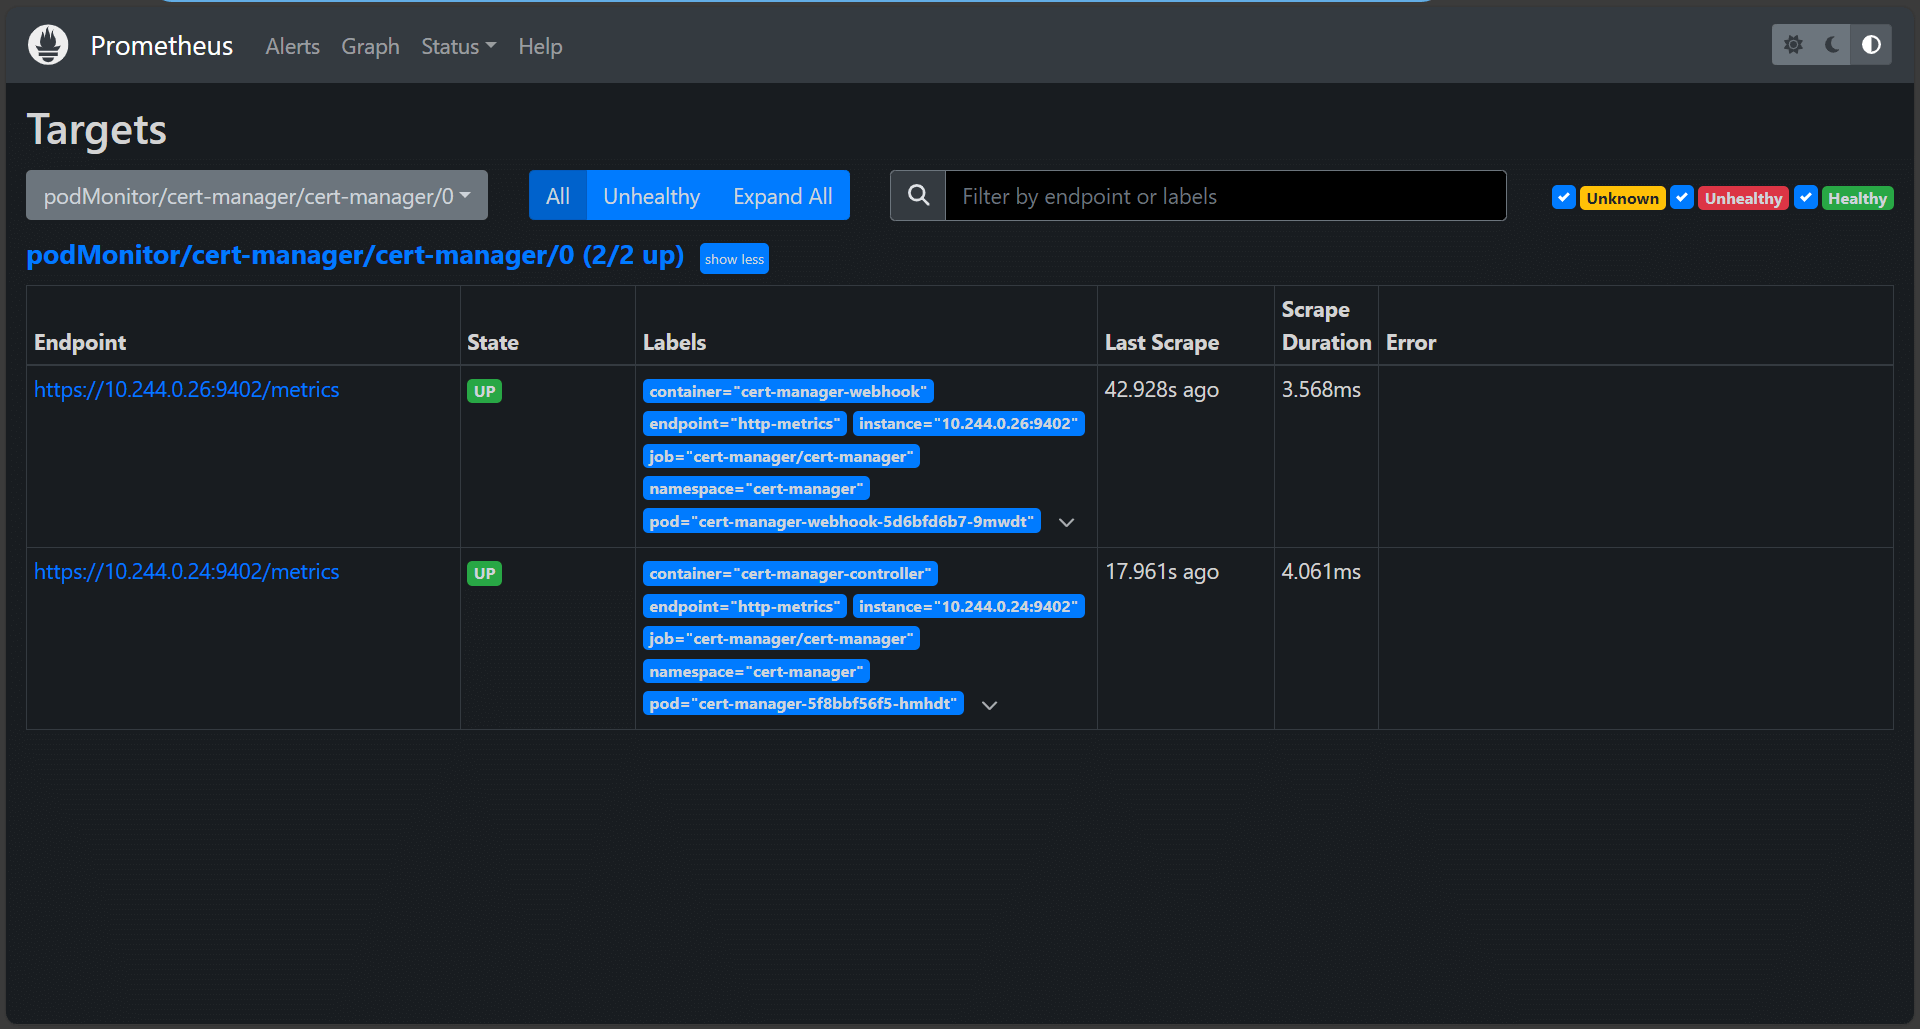
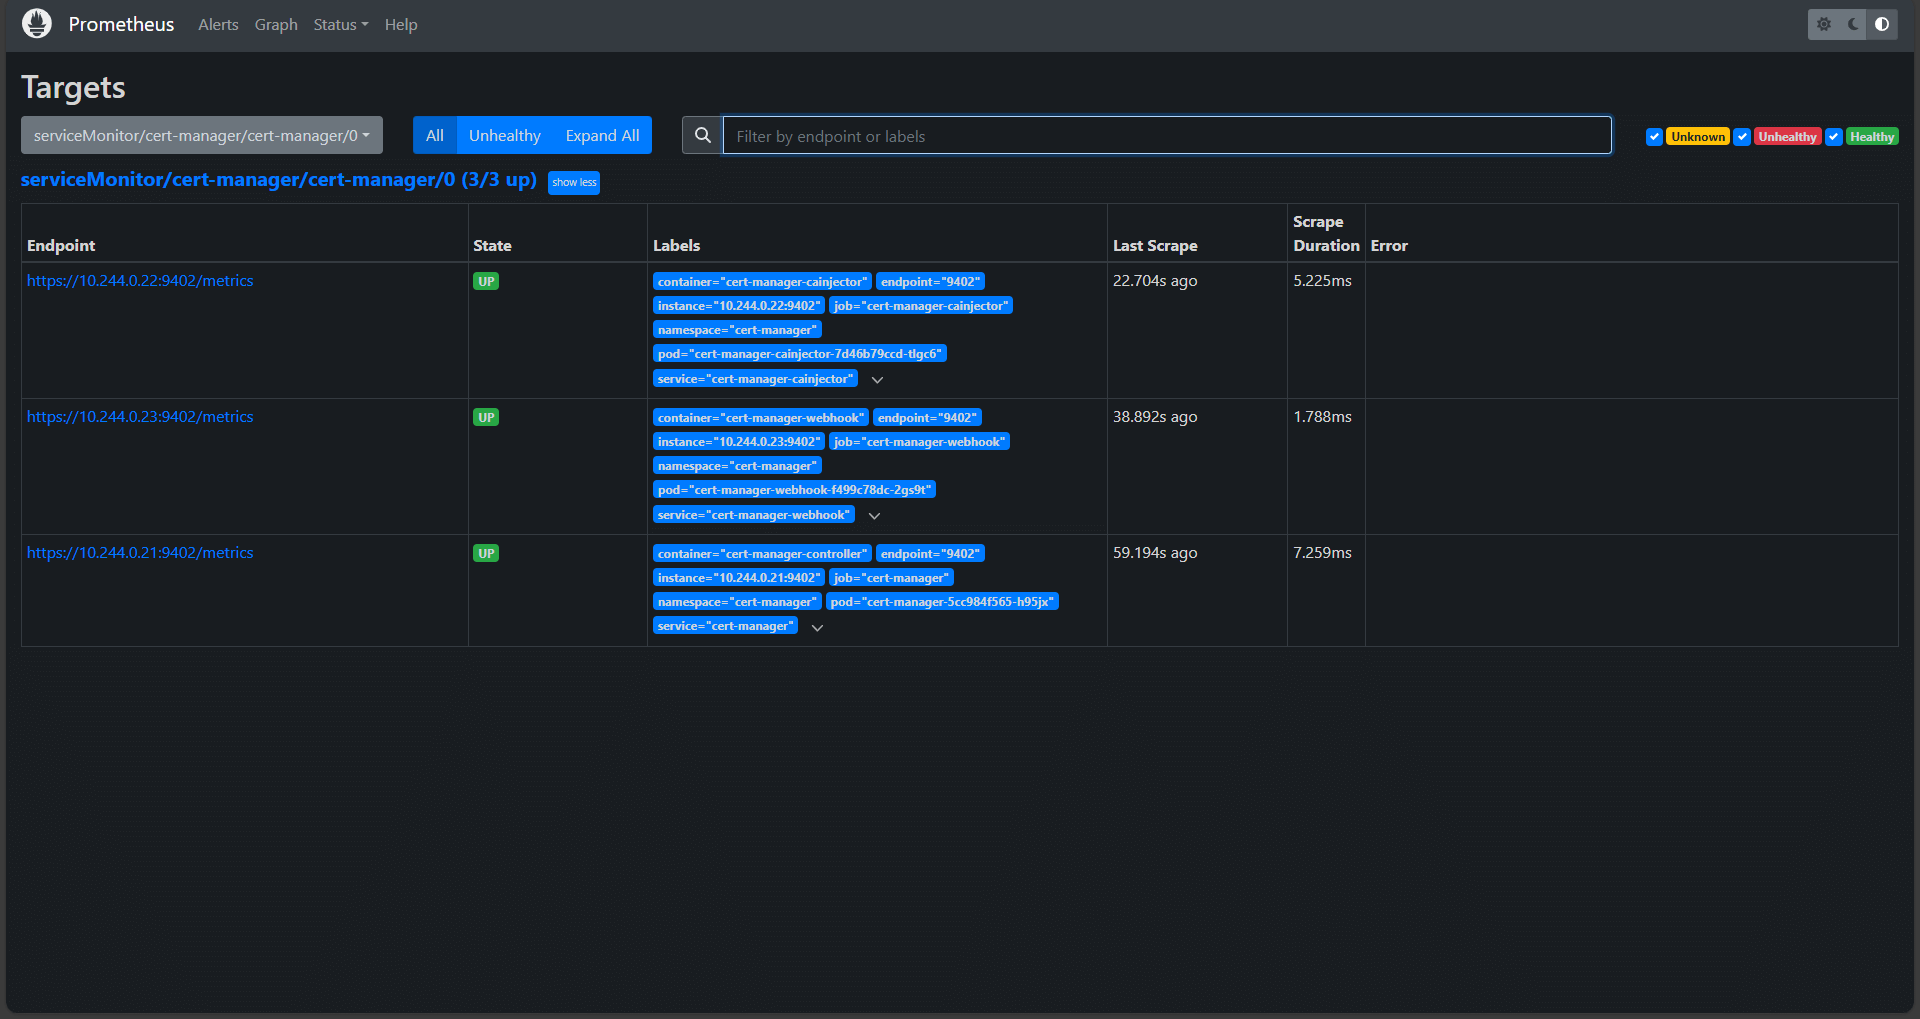
Update the Prometheus Operator documentation to scrape cainjector too

diff --git a/content/docs/devops-tips/prometheus-metrics.md b/content/docs/devops-tips/prometheus-metrics.md
@@ -3,7 +3,7 @@ title: Prometheus Metrics
 description: 'cert-manager usage: Prometheus metrics'
 ---
 
-To help with operations and insights into cert-manager activities, cert-manager exposes metrics in the [Prometheus](https://prometheus.io/) format from the controller and webhook components. These are available at the standard `/metrics` endpoint on port `9402` of each component Pod.
+To help with operations and insights into cert-manager activities, cert-manager exposes metrics in the [Prometheus](https://prometheus.io/) format from the controller, webhook and cainjector components. These are available at the standard `/metrics` endpoint on port `9402` of each component Pod.
 
 ## Scraping Metrics
 
@@ -41,6 +41,7 @@ spec:
       - key: app.kubernetes.io/name
         operator: In
         values:
+        - cainjector
         - cert-manager
         - webhook
       - key: app.kubernetes.io/instance
@@ -50,6 +51,7 @@ spec:
       - key: app.kubernetes.io/component
         operator: In
         values:
+        - cainjector
         - controller
         - webhook
   podMetricsEndpoints:
@@ -80,6 +82,12 @@ config:
       certFile: "/path/to/cert.pem"
       keyFile: "/path/to/key.pem"
 webhook:
+  config:
+    metricsTLSConfig:
+      filesystem:
+        certFile: "/path/to/cert.pem"
+        keyFile: "/path/to/key.pem"
+cainjector:
   config:
     metricsTLSConfig:
       filesystem:
@@ -124,12 +132,20 @@ webhook:
         secretName: "cert-manager-metrics-ca"
         dnsNames:
         - cert-manager-metrics
+cainjector:
+  config:
+    metricsTLSConfig:
+      dynamic:
+        secretNamespace: "cert-manager"
+        secretName: "cert-manager-metrics-ca"
+        dnsNames:
+        - cert-manager-metrics
 ```
 
 > ℹ This configuration will result in a single new Secret `cert-manager/cert-manager-metrics-ca` containing a CA.
-> The first `controller` or `webook` Pod will create the CA Secret and the others will then use it.
+> The first `controller`, `webook`, or `cainjector` Pod will create the CA Secret and the others will then use it.
 >
-> All the controller and webhook Pods will generate their own unique metrics serving certificates
+> All the controller, webhook, and cainjector Pods will generate their own unique metrics serving certificates
 > and sign them with the CA private key.
 >
 > The `PodMonitor` is configured to read the public certificate from the CA Secret
@@ -141,7 +157,7 @@ webhook:
 
 ##### Troubleshooting
 
-Check the controller and webhook logs to see the CA certificate and serving certificates being created and updated:
+Check the controller, webhook and cainjector logs to see the CA certificate and serving certificates being created and updated:
 
 ```sh
 kubectl  -n cert-manager logs -l app.kubernetes.io/instance=cert-manager --prefix
